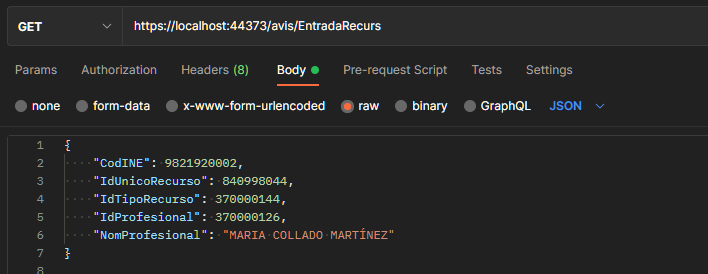
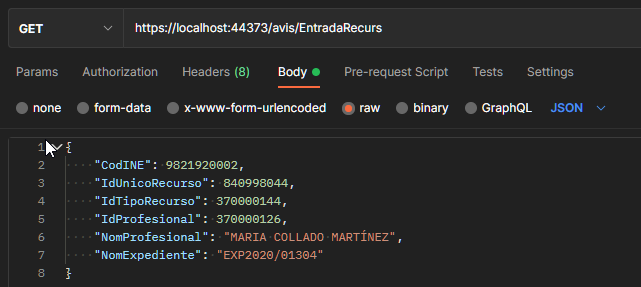
Se agrega el campo NomExpediente solicitado por los integradores

diff --git a/AvisNouRecurs.md b/AvisNouRecurs.md
@@ -127,7 +127,7 @@ Exemple de petició realitzada amb [Postman](https://www.postman.com/)
 | EntradaRecursRequest/**IdTipoRecurso**     | Tipus de recurs traspassat dins de l'Hèstia                  |
 | EntradaRecursRequest/**IdProfesional**     | Identificador del professional que ha donat d'alta el recurs |
 | EntradaRecursRequest/**NomProfesional**    | Nom del professional que ha donat d'alta el recurs           |
-
+| EntradaRecursRequest/**NomExpediente**     | Expedient en el qual s'ha donat d'alta el recurs             |
 
 
 ### 3.1.2. Resposta
